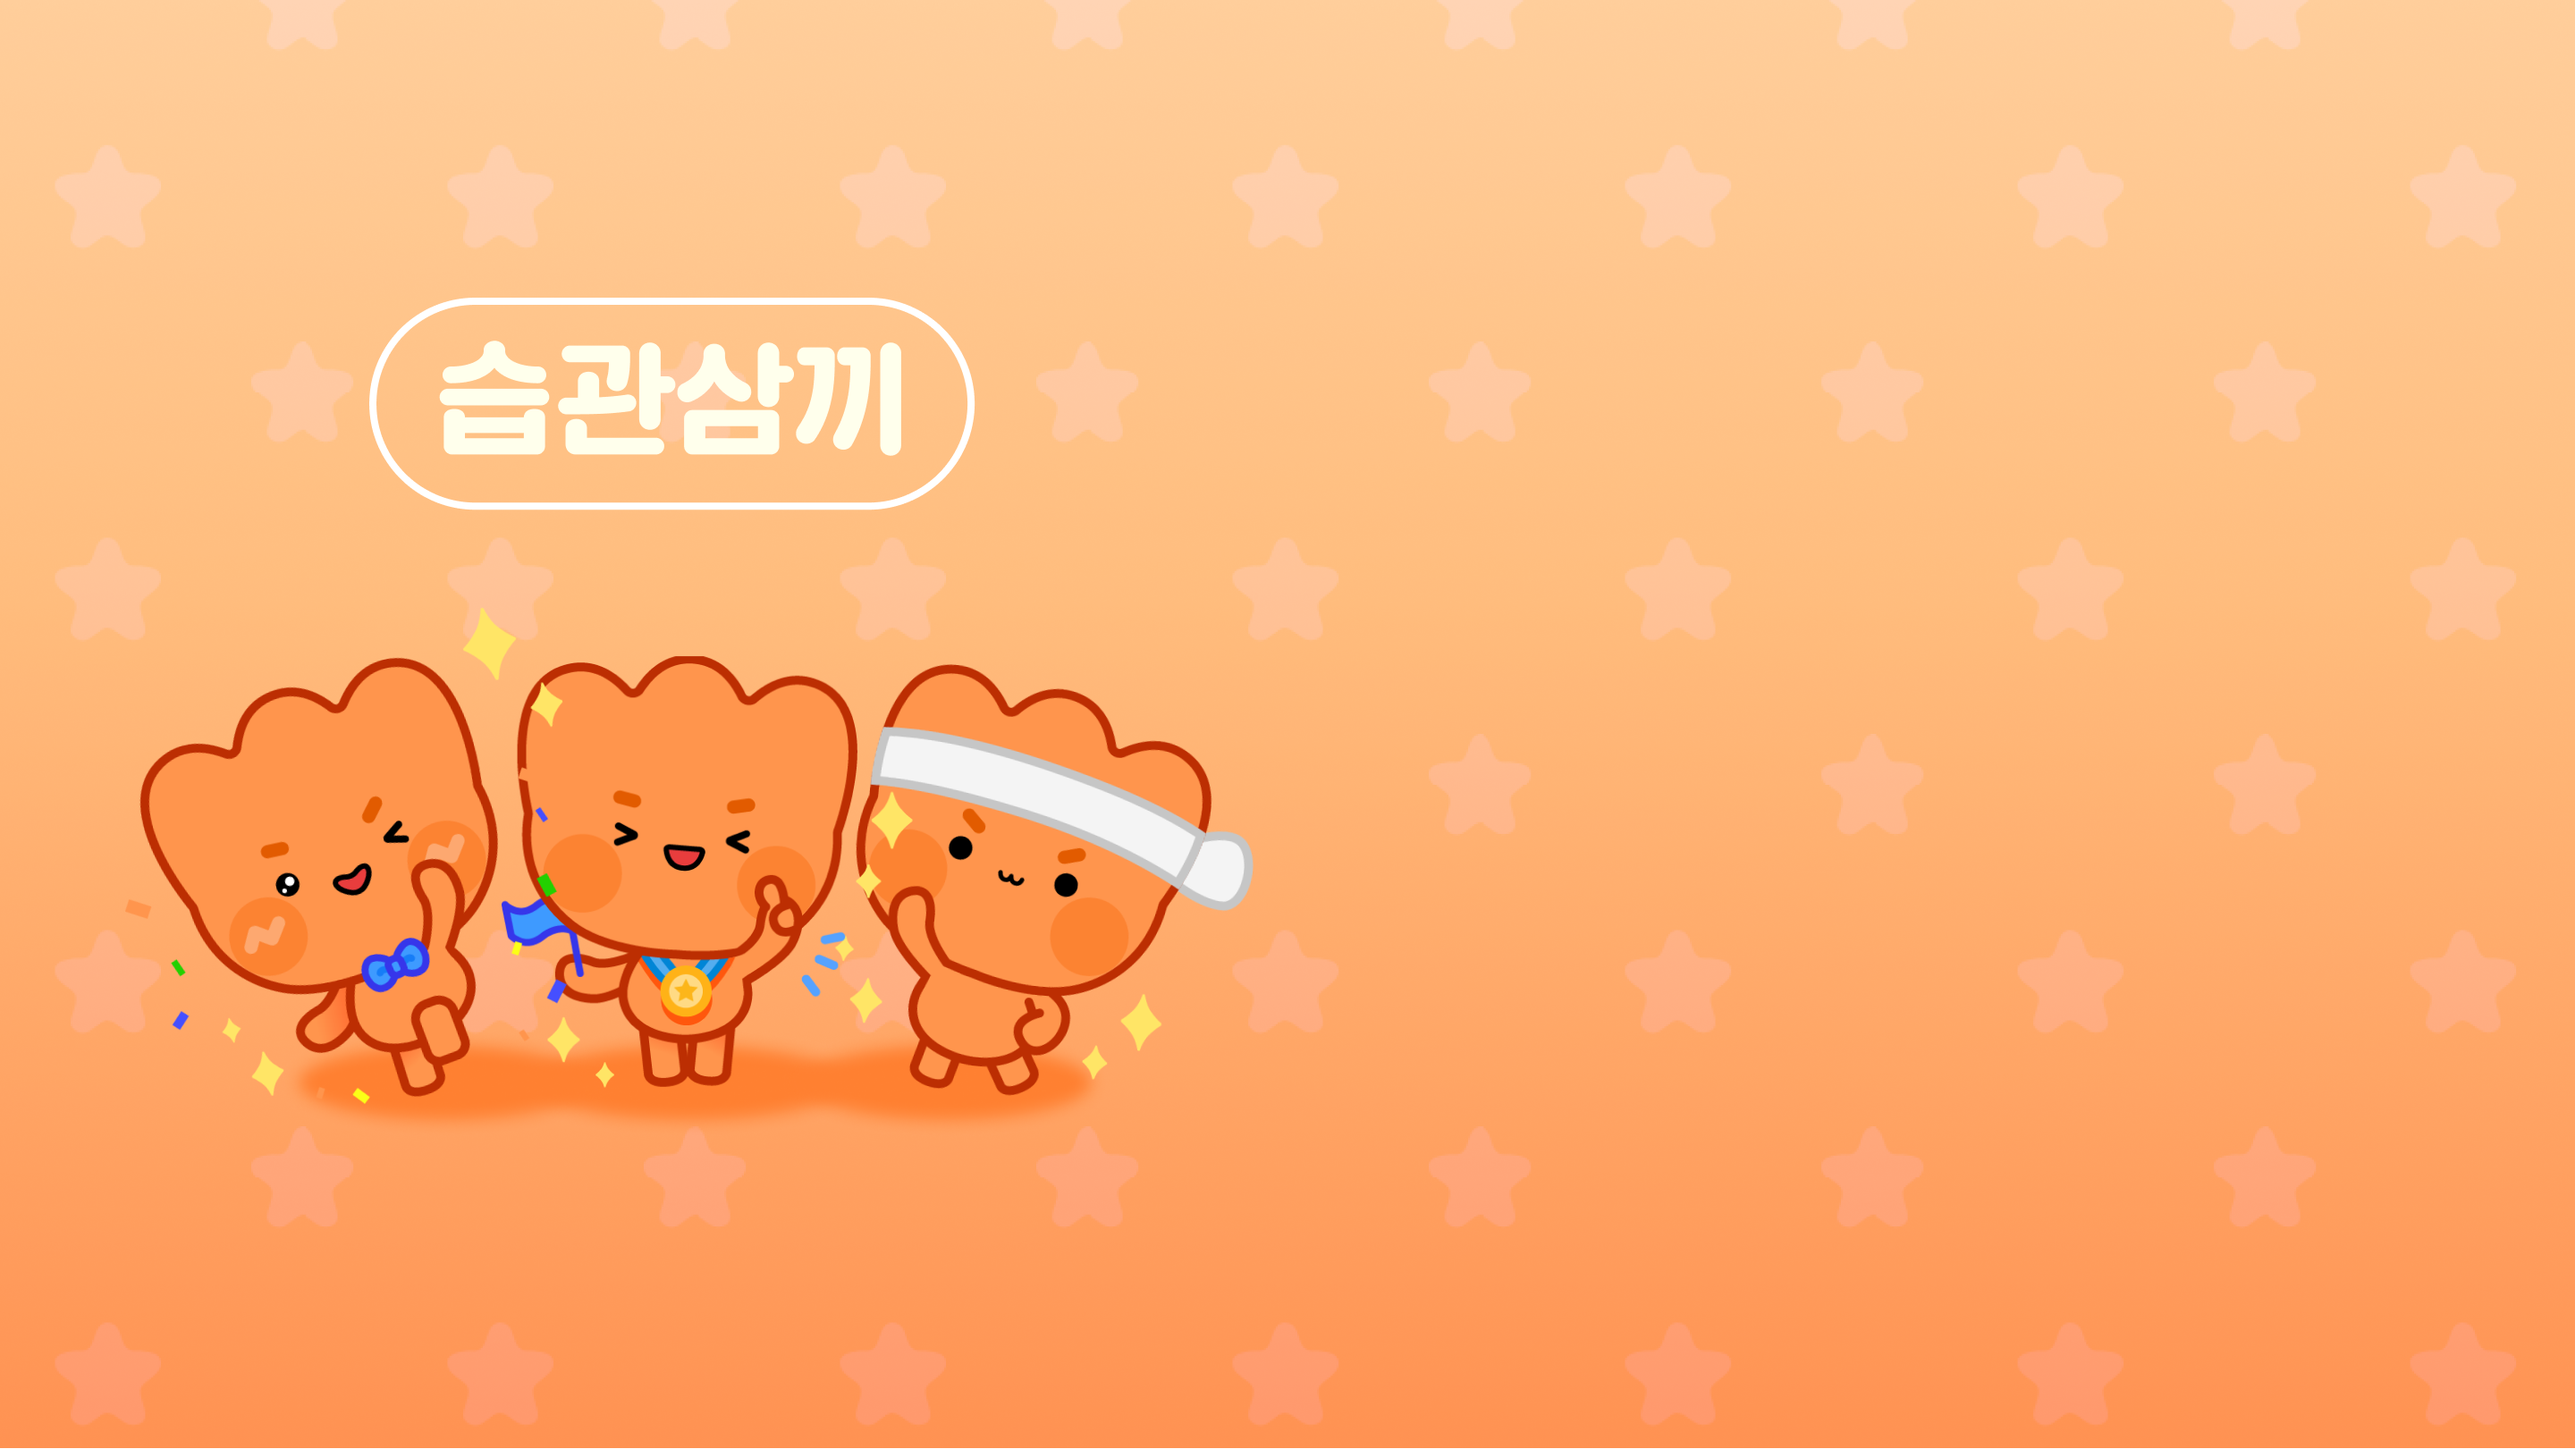
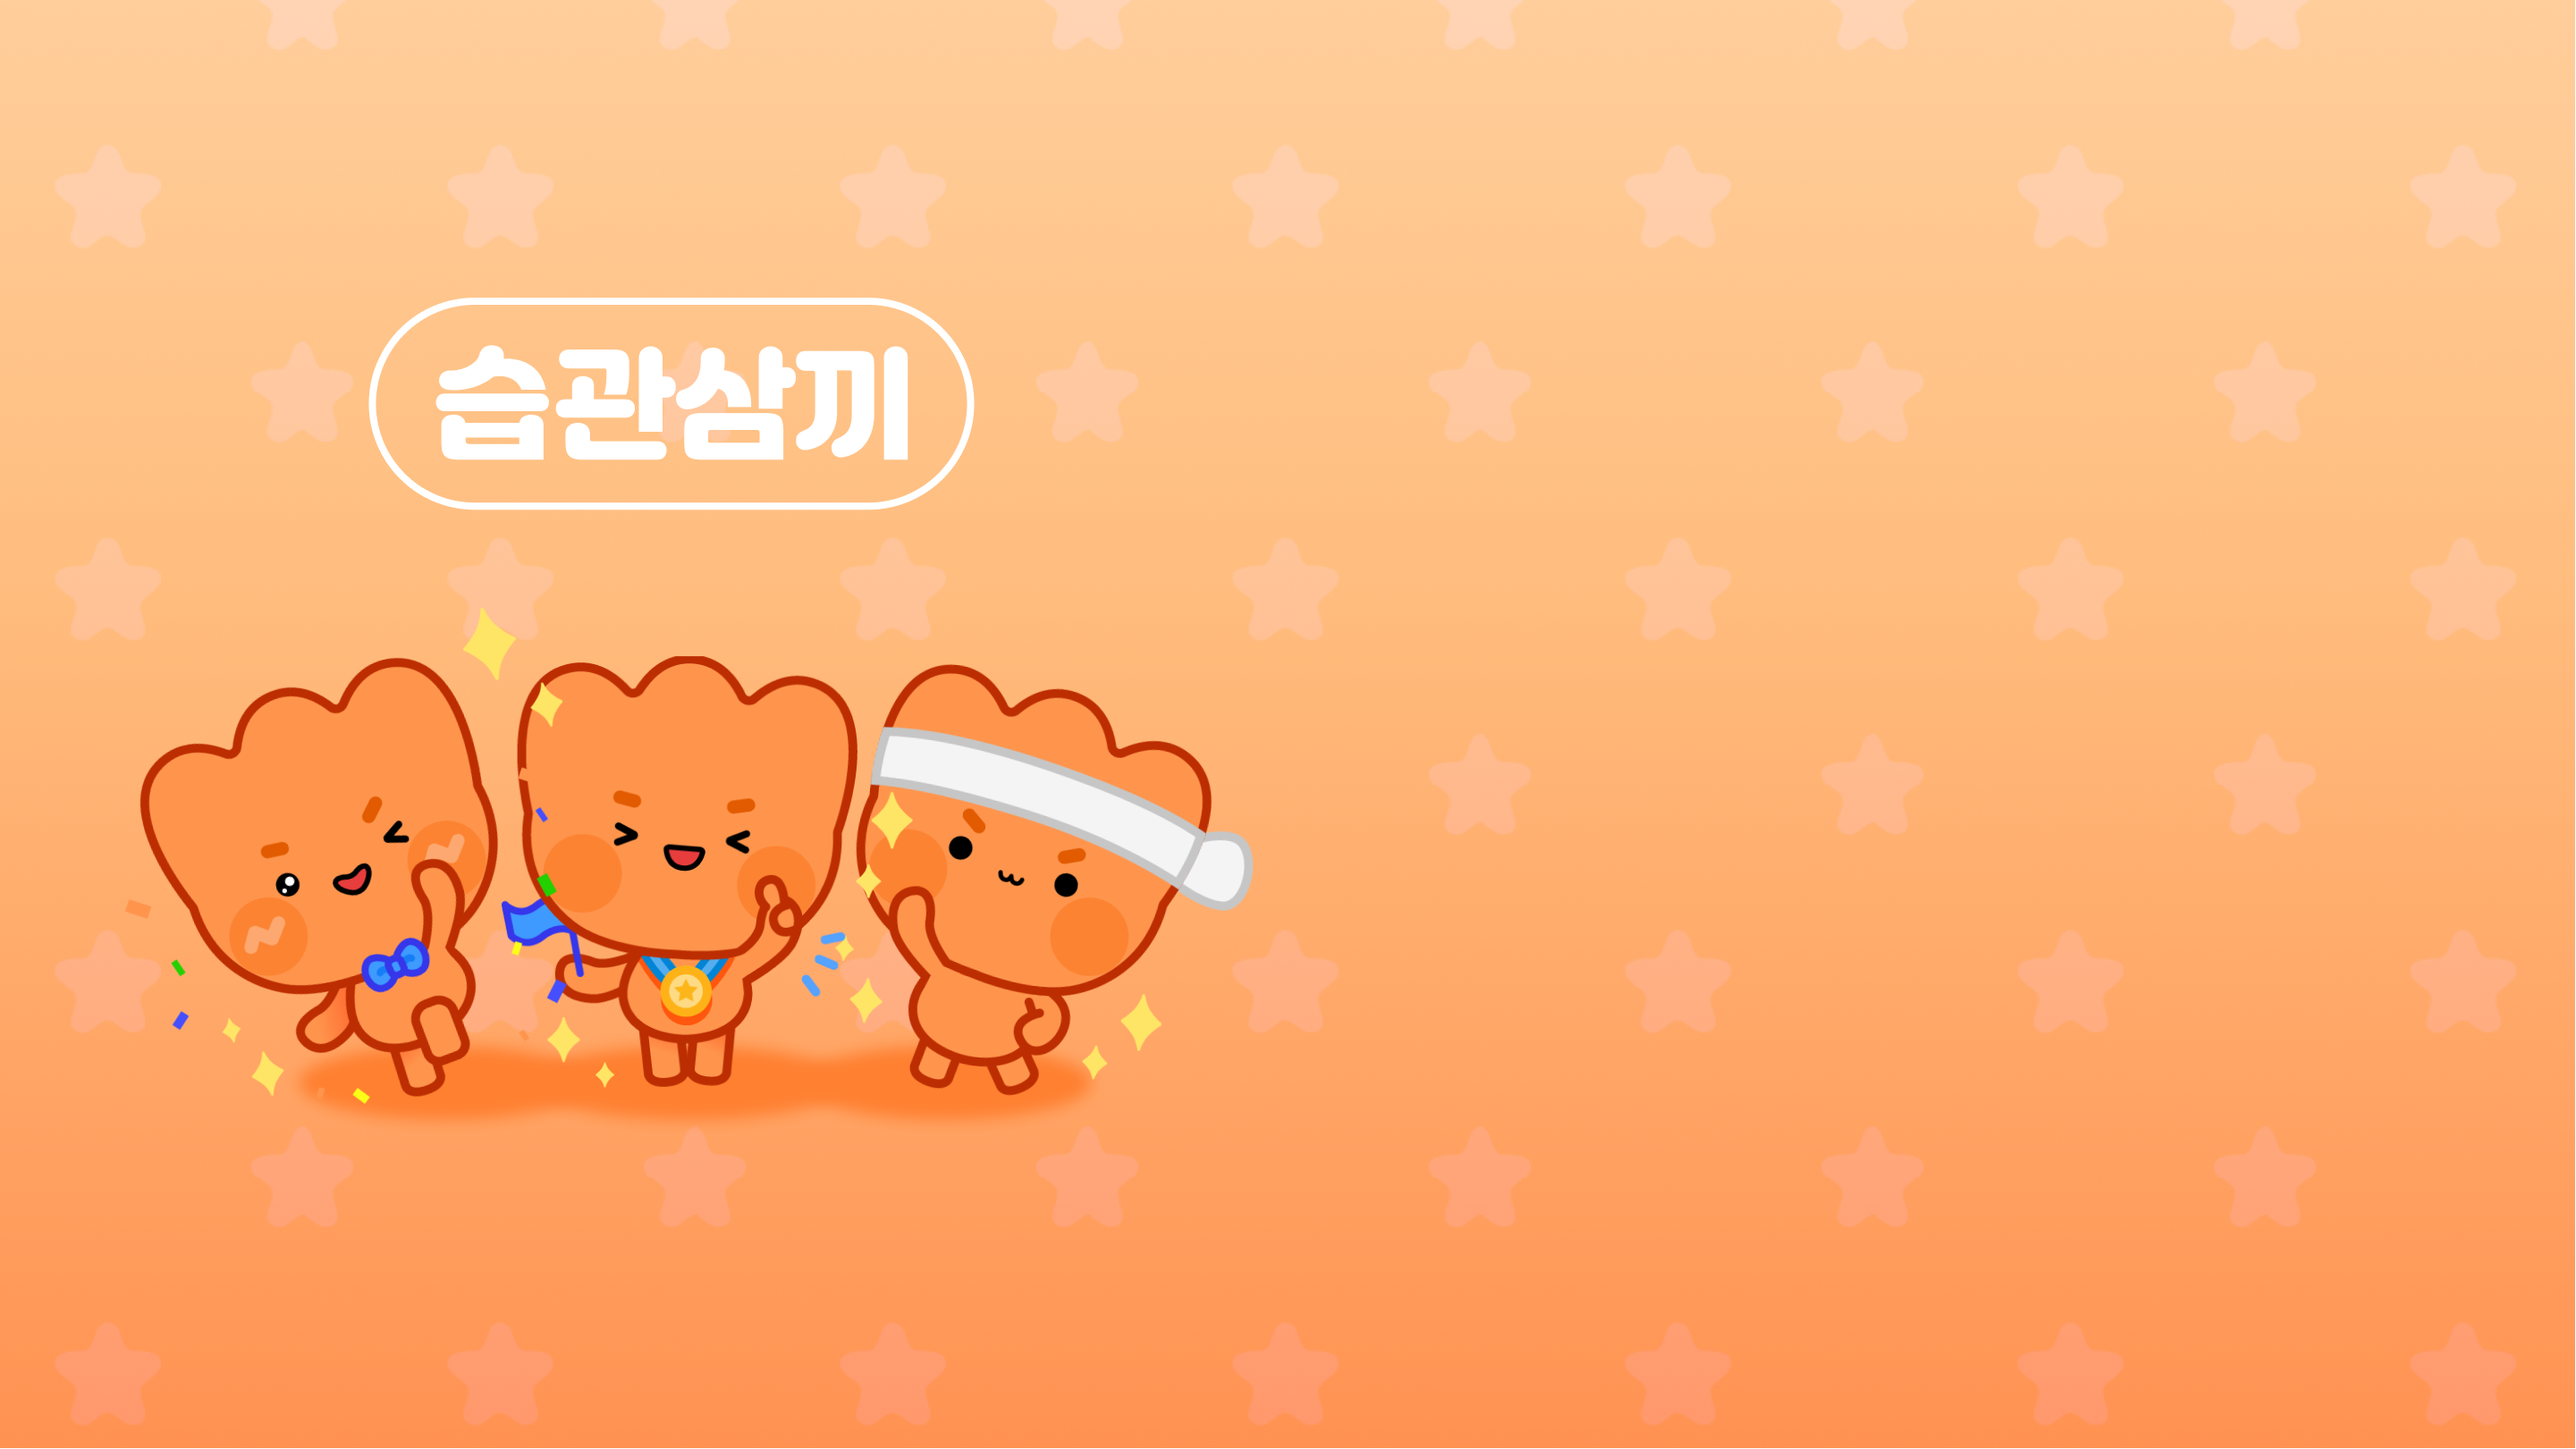
배경/표정 webp로 확장자변경

Changed region(s): [[0.1562, 0.2468, 0.375, 0.3393]]

diff --git a/src/components/ItemCircle.js b/src/components/ItemCircle.js
@@ -43,14 +43,14 @@ const ItemCircle = () => {
   }, [item]);
 
   const color = [
-    ["/color_00.png", "#FF954D"],
-    ["/color_01.png", "#FFF16C"],
-    ["/color_02.png", "#FFC0C0"],
-    ["/color_03.png", "#FF6666"],
-    ["/color_04.png", "#C7FFE0"],
-    ["/color_05.png", "#CAEF9A"],
-    ["/color_06.png", "#8CD6F4"],
-    ["/color_07.png", "#D7C5FF"],
+    ["/color_00.webp", "#FF954D"],
+    ["/color_01.webp", "#FFF16C"],
+    ["/color_02.webp", "#FFC0C0"],
+    ["/color_03.webp", "#FF6666"],
+    ["/color_04.webp", "#C7FFE0"],
+    ["/color_05.webp", "#CAEF9A"],
+    ["/color_06.webp", "#8CD6F4"],
+    ["/color_07.webp", "#D7C5FF"],
   ];
 
   return (

diff --git a/src/pages/Recommend.js b/src/pages/Recommend.js
@@ -38,13 +38,13 @@ const Recommend = (props) => {
 
   if (categoryId === "new") {
     title = "따끈따끈 새챌린지";
-    BannerImg = "/banner/themebanner_01.png";
-  } else if (categoryId === "study") {
+    BannerImg = "/banner/themebanner_01.webp";
+  } else if (categoryId === "exercise") {
     title = "운동 가보자고";
-    BannerImg = "/banner/themebanner_02.png";
+    BannerImg = "/banner/themebanner_02.webp";
   } else {
     title = "추천 작심삼일";
-    BannerImg = "/banner/themebanner_01.png";
+    BannerImg = "/banner/themebanner_01.webp";
   }
 
   return (

diff --git a/src/shared/App.js b/src/shared/App.js
@@ -129,8 +129,8 @@ const Container = styled.div`
   align-items: center;
   overflow: hidden;
   position: relative; //absolute를 쓸때 영역을 잡아주는 역할
-  /* background: url("/banner/background_banner.webp"); */
-  background: url("/banner/background_습관삼끼_ v3.png");
+  background: url("/banner/background_banner.webp");
+  // background: url("/banner/background_습관삼끼_ v3.png");
   background-size: cover;
   scrollbar-width: none;
   ::-webkit-scrollbar {
